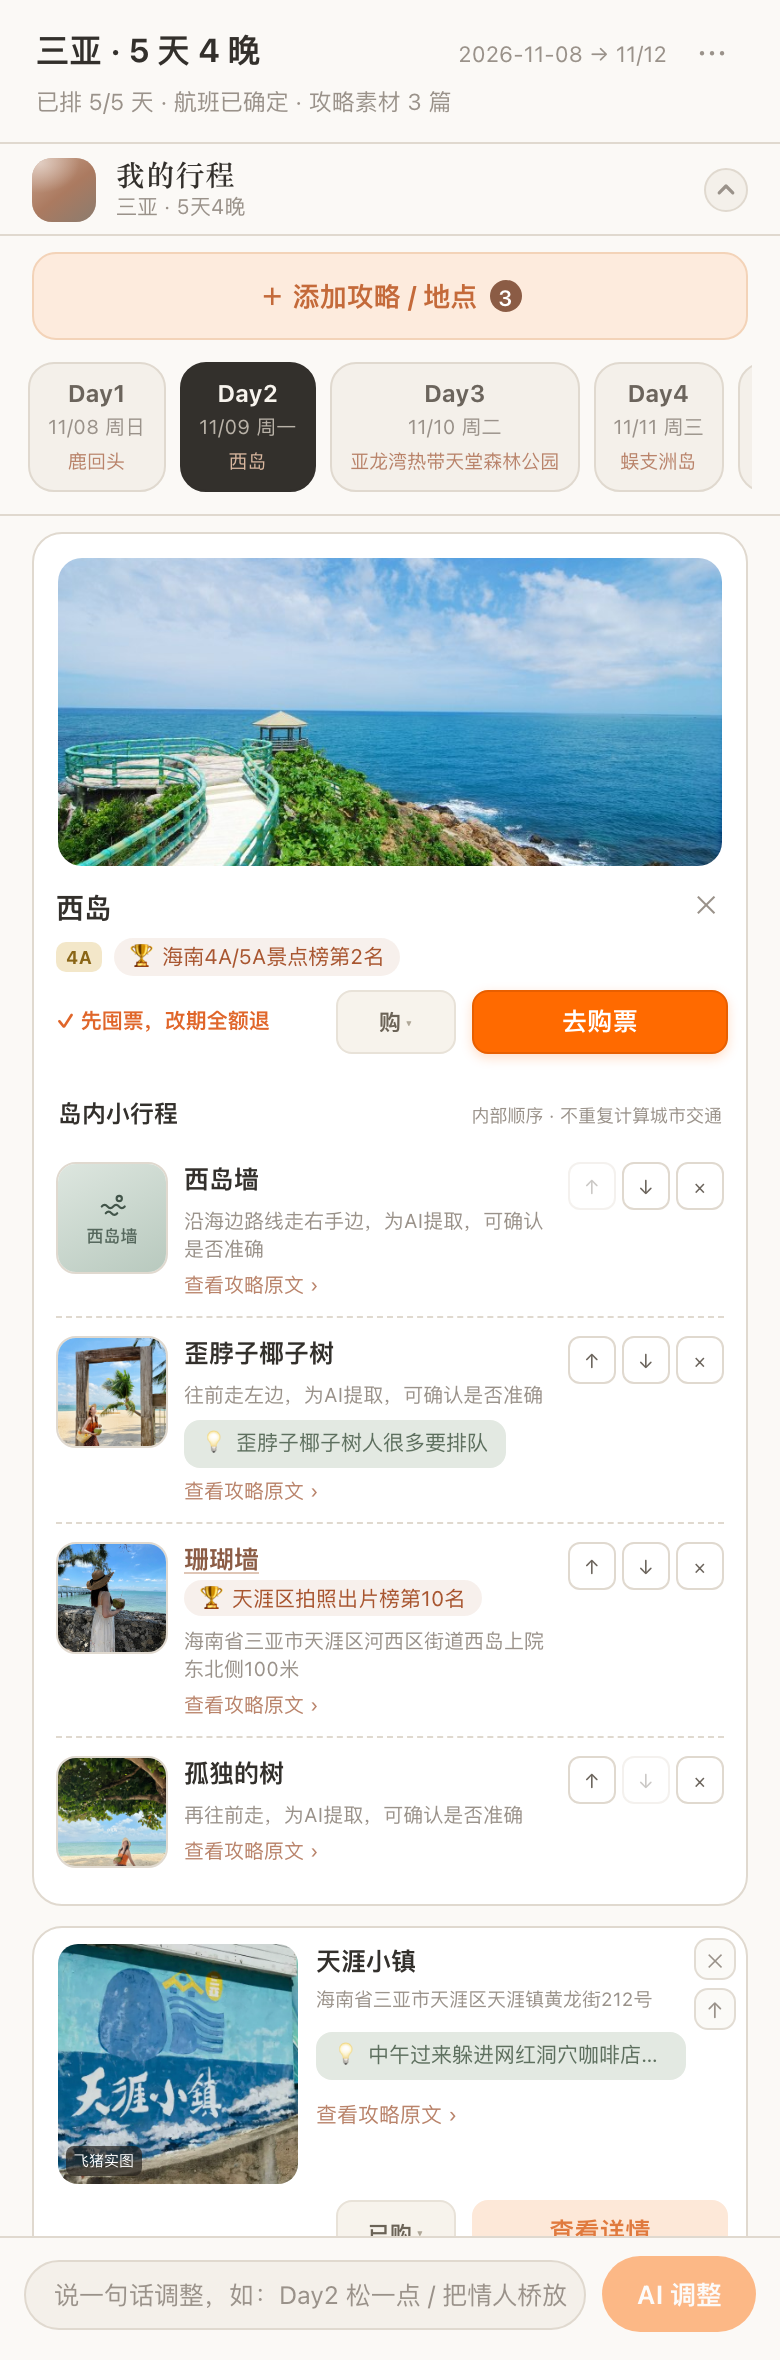
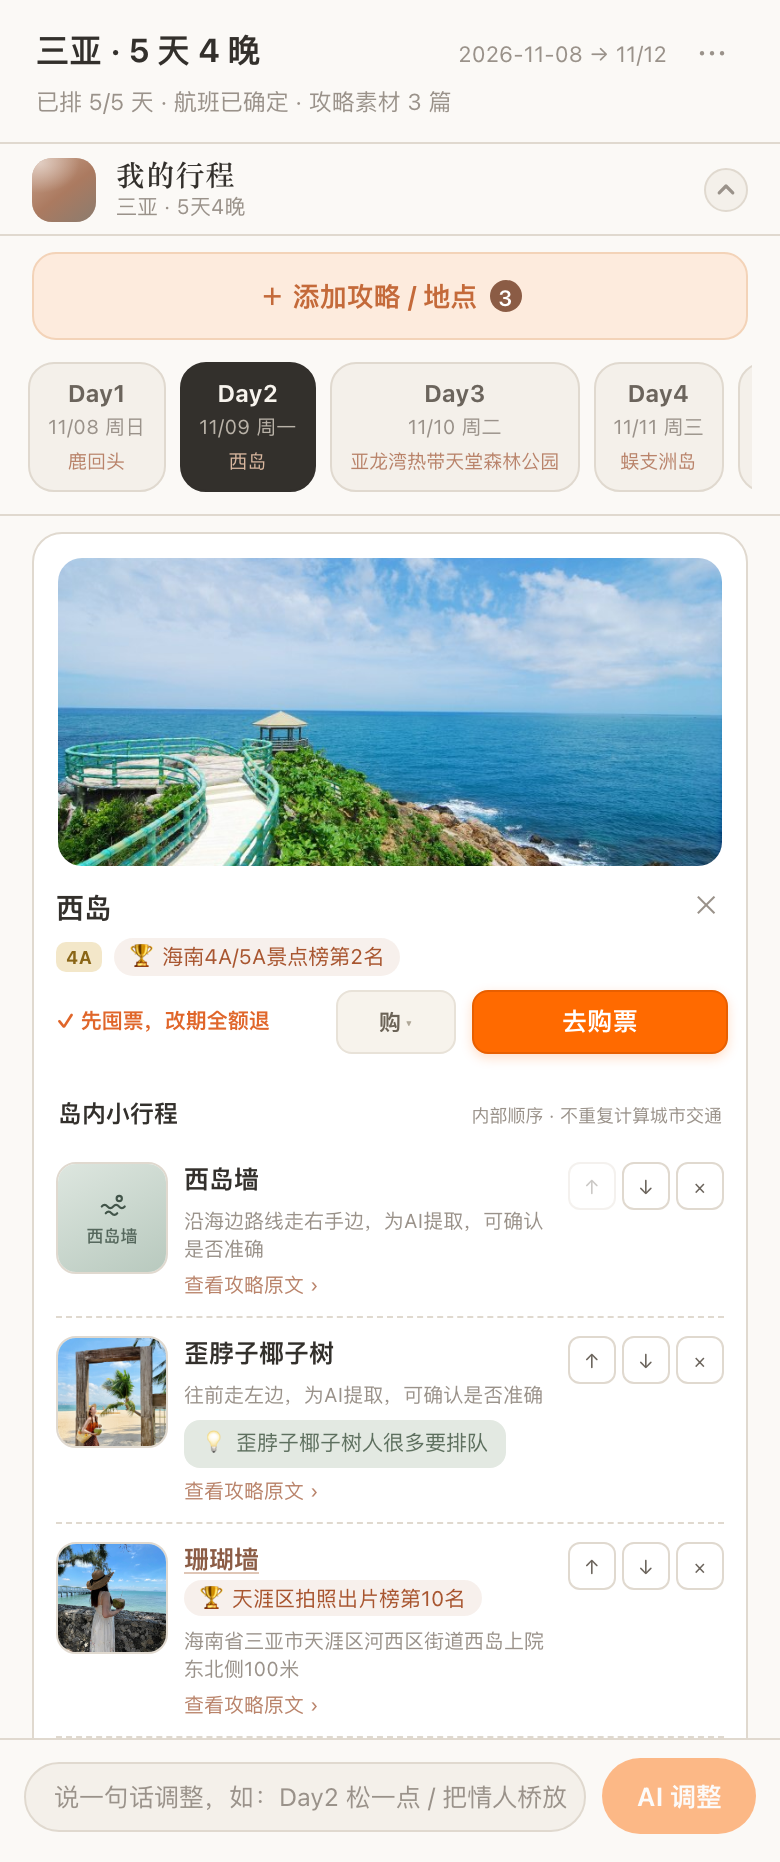
docs: 参赛稿效果展示改为 8 组主图并补充截图附录

diff --git a/docs/contest/submission.md b/docs/contest/submission.md
@@ -100,22 +100,20 @@ POST /sessions/{id}/archive          收尾归档
 
 ## 六、效果展示
 
-以下截图均取自真实运行数据（三亚 5 天 4 晚示例行程），存放于 `docs/contest/assets/`：
+以下 8 组截图取自真实运行数据（三亚 5 天 4 晚示例行程），存放于 `docs/contest/assets/`：
 
-| 截图 | 说明 |
-|---|---|
-| ![行程总览](assets/01-trip-overview.png) | 行程总览：Day 条 + 路线顺序条 + POI 卡 + 酒店卡 + 底部意图栏 |
-| ![父卡子玩法](assets/03-parent-card-xidao-stops.png) | 西岛大景区父卡 + 岛内 4 个子玩法（西岛墙 / 歪脖子椰子树 / 珊瑚墙 / 孤独的树），逐点配图与贴士，可上移 / 下移 / 移除 |
-| ![酒店卡](assets/05-hotel-card.png) | 酒店卡：图片 + 星级 + 参考价 ¥1249 + 已订房 + 查看详情 |
-| ![攻略原文抽屉](assets/06-snippet-source-drawer.png) | 攻略原文抽屉：亮点 + 出处攻略标题 + 原文片段与 AI 概括 |
-| ![只读分享页](assets/10-share-readonly.png) | 只读分享页：脱敏快照，仅可标记购票 / 订房状态，无编辑入口 |
-| ![实用参考](assets/12-option-groups.png) | 实用参考：亚龙湾森林公园门票参考（3 个选项、价格、查看原文、价格仅供参考） |
-| ![新建行程第一步](assets/13-new-trip-init.png) | 新建行程第一步：目的地与日期（品牌主张「攻略在手，行程随心定」） |
-| ![攻略录入](assets/14-guide-input.png) | 攻略录入：粘贴链接 / 文字 + 攻略素材 + 「解析图片」入口与逐图进度（「9 张图片待解析」） |
-| ![初始化第二步](assets/16-init-step2-constraints.png) | 初始化第二步：已定约束与确认 |
-| ![初始化第三步](assets/17-init-step3-lodging.png) | 初始化第三步：住宿片区意向（按天选湾） |
+| # | 截图 | 说明 |
+|---|---|---|
+| 1 | ![攻略录入](assets/14-guide-input.png) | **攻略录入**：粘贴链接 / 文字 / 上传截图三通道 + 「解析图片」手动触发 + 「9 张图片待解析」逐图进度 |
+| 2 | ![行程总览](assets/01-trip-overview.png) | **行程总览**：多日行程 + 3 篇攻略素材 + 路线顺序 + 酒店锁定 + 底部 AI 调整入口 |
+| 3 | ![已定约束与确认](assets/16-init-step2-constraints.png) | **已定约束与确认**：已定安排录入后 AI 排程会避开、不被打乱 |
+| 4 | ![上：指令](assets/19-ai-proposal-1.png)<br>![下：提案与理由 / 确认入口](assets/19-ai-proposal-2.png) | **AI 调整提案（真实）**：用户指令「Day2 西岛太赶了，去掉它，别的别动」→ AI 只提出 1 项调整并给出理由 → 需勾选确认才生效；已购项与已订住宿不在提案内<br>上：指令；下：提案与理由 / 确认入口 |
+| 5 | ![攻略原文回溯](assets/06-snippet-source-drawer.png) | **攻略原文回溯**：亮点可点回出处攻略与原句，非凭空生成 |
+| 6 | ![岛内小行程](assets/03-parent-card-xidao-stops.png) | **岛内小行程**：西岛父卡 + 3 个子玩法（西岛墙 / 歪脖子椰子树 / 珊瑚墙），可上移下移移除 |
+| 7 | ![待办清单](assets/18-todo-checklists.png) | **待办清单**：待办 14 / 已完成 5，按天列出景点、门票与住宿待办 |
+| 8 | ![共享行程与预订协同](assets/10-share-readonly.png) | **共享行程与预订协同**：只读分享，朋友可标记购票 / 订房状态 |
 
-> 以上 10 张为提交前统一规格（390×844@2x）实录，其中 03 为父卡长图（视口加高至 390×1180，出图 780×2360）。
+> 以上为提交前实测截图（390 宽 @2x；部分为长图）；AI 提案为同一次真实流程的前后两张，未拼接虚构界面。
 
 ## 七、项目链接与复现方式
 
@@ -163,6 +161,21 @@ npm run dev            # concurrently 同时拉起 server 与 web
 
 ## 附：资产与敏感信息自查
 
-- 截图 01、03、05、06、10、12、13、14、16、17 为提交前在 dev 环境（5173/8787）实测补拍；其余历史取证图未纳入本稿。全部为真实运行界面，未做内容伪造。
+- 主图 14、01、16、19-1、19-2、06、03、18、10 与附录 13、17、05、12、appendix-guide-retry 均为提交前在 dev 环境（5173/8787）实测截图；`15-hotel-search.png` 未纳入本稿、未入库。全部为真实运行界面，未做内容伪造。
 - 已抽查本稿引用的全部截图：不含手机号、邮箱、身份证、微信等 PII，不含任何密钥/Token/`.env` 内容；分享页为脱敏快照形态。
+- AI 提案图为同一次真实调用的前后两张（指令 → 提案）；未执行应用，行程数据未发生变化。
 - 示例行程中的攻略来源为公开平台笔记，仅存在于本地运行时数据（不入库）。
+
+## 附录：其他截图
+
+作为补充材料列出，不参与主叙事：
+
+| 截图 | 说明 |
+|---|---|
+| ![新建行程第一步](assets/13-new-trip-init.png) | 新建行程第一步（通用表单，辨识度低，放附录） |
+| ![住宿片区意向](assets/17-init-step3-lodging.png) | 住宿片区意向（细节参考） |
+| ![酒店卡](assets/05-hotel-card.png) | 酒店卡（与分享页「已订房」信息部分重复） |
+| ![门票选项组](assets/12-option-groups.png) | 门票选项组（攻略信息转购买参考） |
+| ![图片解析重试](assets/appendix-guide-retry.png) | 图片解析失败可单张重试（稳定性兜底示例） |
+
+> 附录为补充材料，主叙事以 8 组主图为准。
